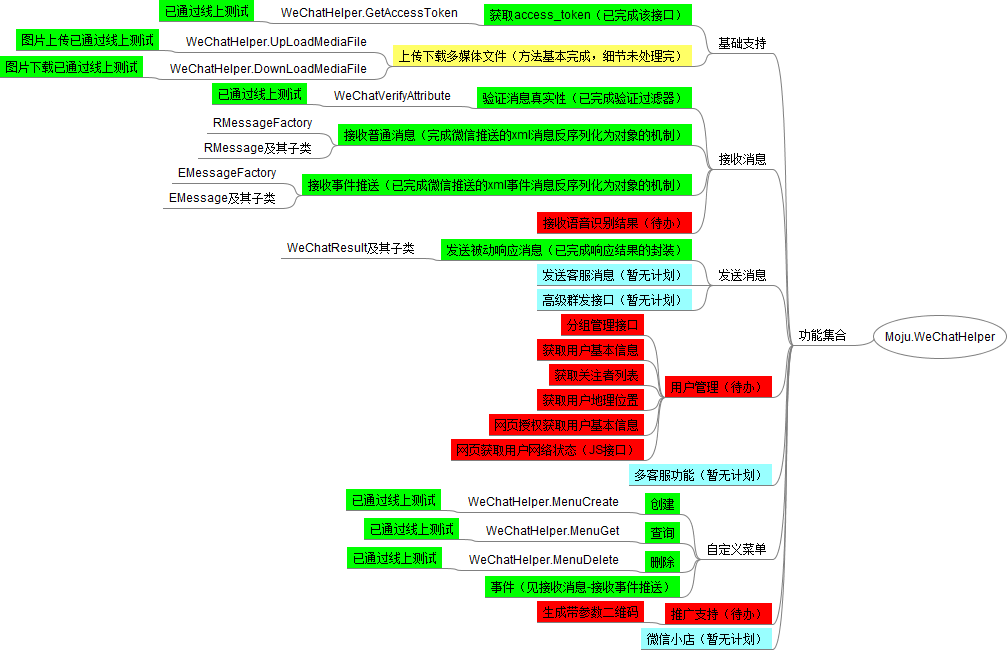
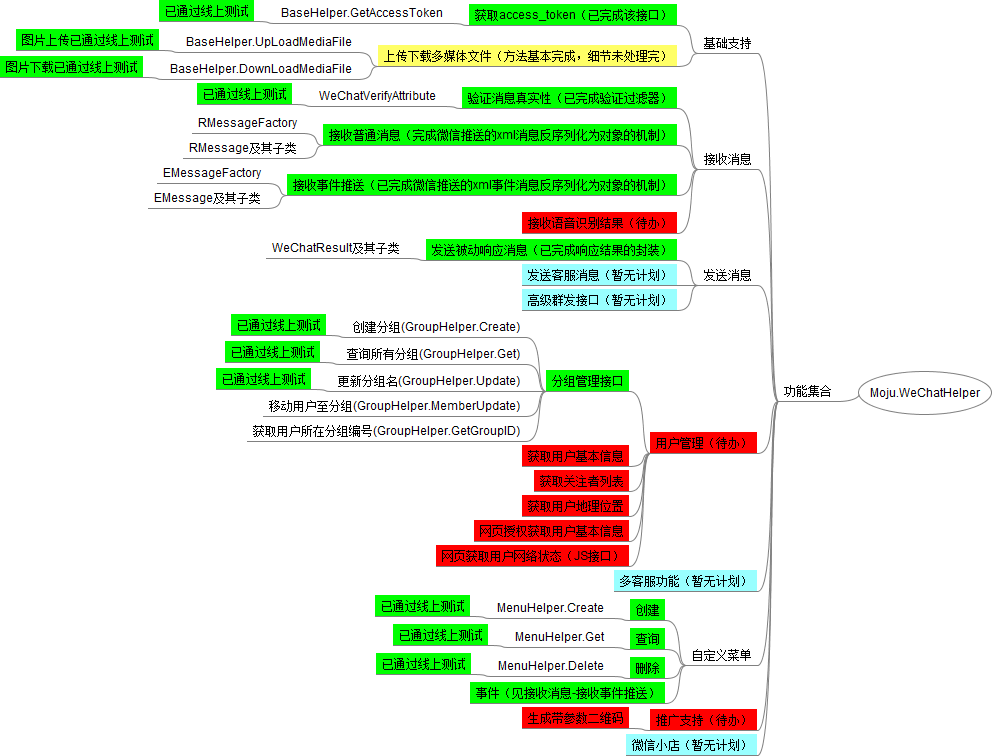
重新整理各个功能模块的方法封�
分别建立MenuHelper,BaseHelper,GroupHelper,UserHelper,以防止原WeChatHelper集中太多接口方法

Changed region(s): [[0.0, 0.0, 1.0, 1.0]]

diff --git a/Moju.WeChatHelper/Common/Utils.cs b/Moju.WeChatHelper/Common/Utils.cs
@@ -1,5 +1,6 @@
 using System.Collections.Generic;
 using System.IO;
+using System.Net;
 using System.Security.Cryptography;
 using System.Text;
 using System.Web.Security;
@@ -25,7 +26,7 @@ namespace Moju.WeChatHelper
             tmp.Add(timestamp);
             tmp.Add(nonce);
             string str = string.Join("", tmp);
-            string hashRes = SHA1(str);
+            string hashRes = FormsAuthentication.HashPasswordForStoringInConfigFile(str, "SHA1").ToLower();
             if (!string.IsNullOrWhiteSpace(hashRes) && signature == hashRes)
             {
                 return true;
@@ -34,28 +35,6 @@ namespace Moju.WeChatHelper
             {
                 return false;
             }
-        }
-
-        /// <summary>
-        /// SHA1加密
-        /// </summary>
-        private static string SHA1(string ToEncrypt)
-        {
-            return FormsAuthentication.HashPasswordForStoringInConfigFile(ToEncrypt, "SHA1").ToLower();
-            // 
-            /*
-             *  var sha1 = new SHA1CryptoServiceProvider();
-            return BitConverter.ToString(sha1.ComputeHash(Encoding.Default.GetBytes(result))).Replace("-", "").ToLower();
-             */
-            //byte[] StrRes = Encoding.Default.GetBytes(ToEncrypt);
-            //HashAlgorithm iSHA = new SHA1CryptoServiceProvider();
-            //StrRes = iSHA.ComputeHash(StrRes);
-            //StringBuilder EnText = new StringBuilder();
-            //foreach (byte iByte in StrRes)
-            //{
-            //    EnText.AppendFormat("{0:x2}", iByte);
-            //}
-            //return EnText.ToString();
         }
 
         /// <summary>
@@ -72,5 +51,63 @@ namespace Moju.WeChatHelper
                 return (T)serializer.Deserialize(sr);
             }
         }
+
+        /// <summary>
+        /// 发送一个GET请求
+        /// </summary>
+        /// <param name="url"></param>
+        /// <returns></returns>
+        public static string RequestGet(string url)
+        {
+            HttpWebRequest req = (HttpWebRequest)HttpWebRequest.Create(url);
+            req.Method = "GET";
+            using (HttpWebResponse resp = (HttpWebResponse)req.GetResponse())
+            {
+                if (resp.StatusCode == HttpStatusCode.OK)
+                {
+                    using (StreamReader sr = new StreamReader(resp.GetResponseStream(), Encoding.UTF8))
+                    {
+                        return sr.ReadToEnd();
+                    }
+                }
+                else
+                {
+                    return "error";
+                }
+            }
+        }
+        /// <summary>
+        /// 发送一个POST请求
+        /// </summary>
+        /// <param name="url"></param>
+        /// <param name="postData"></param>
+        /// <returns></returns>
+        public static string RequestPost(string url, string postData)
+        {
+            HttpWebRequest req = (HttpWebRequest)HttpWebRequest.Create(url);
+            req.Method = "POST";
+            byte[] data = Encoding.UTF8.GetBytes(postData);
+            req.ContentLength = data.Length;
+            using (Stream sw = req.GetRequestStream())
+            {
+                sw.Write(data, 0, data.Length);
+                sw.Flush();
+                using (HttpWebResponse resp = (HttpWebResponse)req.GetResponse())
+                {
+                    if (resp.StatusCode == HttpStatusCode.OK)
+                    {
+                        using (StreamReader sr = new StreamReader(resp.GetResponseStream(), Encoding.UTF8))
+                        {
+                            return sr.ReadToEnd();
+                        }
+                    }
+                    else
+                    {
+                        return "error";
+                    }
+                }
+            }
+        }
+
     }
 }

diff --git a/Moju.WeChatHelper/BaseHelper.cs b/Moju.WeChatHelper/BaseHelper.cs
@@ -7,7 +7,10 @@ using System.Text;
 using System.Linq;
 namespace Moju.WeChatHelper
 {
-    public class WeChatHelper
+    /// <summary>
+    /// 基础支持
+    /// </summary>
+    public class BaseHelper
     {
         private static WeChatHelperSection config = (WeChatHelperSection)ConfigurationManager.GetSection("WeChatHelperSection");
         /// <summary>
@@ -19,7 +22,7 @@ namespace Moju.WeChatHelper
         public static string GetAccessToken()
         {
             string url = string.Format("https://api.weixin.qq.com/cgi-bin/token?grant_type=client_credential&appid={0}&secret={1}", config.WeChatAppID, config.WeChatAppSecret);
-            return GetRequestUrl(url);
+            return Utils.RequestGet(url);
         }
         /// <summary>
         /// 上传本地文件
@@ -100,73 +103,6 @@ namespace Moju.WeChatHelper
                 else
                 {
                     return "微信下载接口调用失败!";
-                }
-            }
-        }
-        /// <summary>
-        /// 创建自定义菜单
-        /// </summary>
-        /// <param name="AccessToken"></param>
-        /// <returns></returns>
-        public static string MenuCreate(string AccessToken, Menu menu)
-        {
-            string url = string.Format("https://api.weixin.qq.com/cgi-bin/menu/create?access_token={0}", AccessToken);
-            HttpWebRequest req = (HttpWebRequest)HttpWebRequest.Create(url);
-            req.Method = "POST";
-            string postData = menu.GetJson().ToString();
-            byte[] data = Encoding.UTF8.GetBytes(postData);
-            req.ContentLength = data.Length;
-            using (Stream sw = req.GetRequestStream())
-            {
-                sw.Write(data, 0, data.Length);
-                sw.Flush();
-                using (HttpWebResponse resp = (HttpWebResponse)req.GetResponse())
-                {
-                    if (resp.StatusCode == HttpStatusCode.OK)
-                    {
-                        using (StreamReader sr = new StreamReader(resp.GetResponseStream(), Encoding.UTF8))
-                        {
-                            return sr.ReadToEnd();
-                        }
-                    }
-                    else
-                    {
-                        return "error";
-                    }
-                }
-            }
-        }
-        public static string MenuGet(string AccessToken)
-        {
-            string url = string.Format("https://api.weixin.qq.com/cgi-bin/menu/get?access_token={0}", AccessToken);
-            return GetRequestUrl(url);
-        }
-        public static string MenuDelete(string AccessToken)
-        {
-            string url = string.Format("https://api.weixin.qq.com/cgi-bin/menu/delete?access_token={0}", AccessToken);
-            return GetRequestUrl(url);
-        }
-        /// <summary>
-        /// 发送一个GET请求
-        /// </summary>
-        /// <param name="url"></param>
-        /// <returns></returns>
-        private static string GetRequestUrl(string url)
-        {
-            HttpWebRequest req = (HttpWebRequest)HttpWebRequest.Create(url);
-            req.Method = "GET";
-            using (HttpWebResponse resp = (HttpWebResponse)req.GetResponse())
-            {
-                if (resp.StatusCode == HttpStatusCode.OK)
-                {
-                    using (StreamReader sr = new StreamReader(resp.GetResponseStream(), Encoding.UTF8))
-                    {
-                        return sr.ReadToEnd();
-                    }
-                }
-                else
-                {
-                    return "error";
                 }
             }
         }

diff --git a/Demo/Controllers/HomeController.cs b/Demo/Controllers/HomeController.cs
@@ -38,7 +38,7 @@ namespace Demo.Controllers
                 //测试获取access_token接口
                 if (text.Content == "t1")
                 {
-                    string AccessToken = WeChatHelper.GetAccessToken();
+                    string AccessToken = BaseHelper.GetAccessToken();
                     Tools.Log("AccessToken:" + AccessToken);
                     return new WeChatTextResult
                     {
@@ -51,7 +51,7 @@ namespace Demo.Controllers
                 //测试图片上传接口
                 if (text.Content == "t2")
                 {
-                    string res = WeChatHelper.UpLoadMediaFile(Tools.GetToken(), UpLoadMediaType.Image, Server.MapPath("~/mind.jpg"));
+                    string res = BaseHelper.UpLoadMediaFile(Tools.GetToken(), UpLoadMediaType.Image, Server.MapPath("~/mind.jpg"));
                     var rightDef = new { type = "", media_id = "", created_at = 0 };//{"type":"TYPE","media_id":"MEDIA_ID","created_at":123456789}
 
                     var resObj = JsonConvert.DeserializeAnonymousType(res, rightDef);
@@ -80,7 +80,7 @@ namespace Demo.Controllers
                 {
                     RImageMessage img = (RImageMessage)msg;
                     //下载图片
-                    string FilePath = WeChatHelper.DownLoadMediaFile(Tools.GetToken(), img.MediaId, Server.MapPath("~/files/"));
+                    string FilePath = BaseHelper.DownLoadMediaFile(Tools.GetToken(), img.MediaId, Server.MapPath("~/files/"));
 
                     Tools.Log("download:" + FilePath);
 

diff --git a/Moju.WeChatHelper/Menu/MenuHelper.cs b/Moju.WeChatHelper/Menu/MenuHelper.cs
@@ -1,0 +1,44 @@
+using System;
+using System.Collections.Generic;
+using System.Linq;
+using System.Text;
+
+namespace Moju.WeChatHelper
+{
+    /// <summary>
+    /// 自定义菜单
+    /// </summary>
+    public class MenuHelper
+    {
+        /// <summary>
+        /// 创建自定义菜单
+        /// </summary>
+        /// <param name="AccessToken"></param>
+        /// <returns></returns>
+        public static string Create(string AccessToken, Menu menu)
+        {
+            string url = string.Format("https://api.weixin.qq.com/cgi-bin/menu/create?access_token={0}", AccessToken);
+            return Utils.RequestPost(url, menu.GetJson().ToString());
+        }
+        /// <summary>
+        /// 查询菜单
+        /// </summary>
+        /// <param name="AccessToken"></param>
+        /// <returns></returns>
+        public static string Get(string AccessToken)
+        {
+            string url = string.Format("https://api.weixin.qq.com/cgi-bin/menu/get?access_token={0}", AccessToken);
+            return Utils.RequestGet(url);
+        }
+        /// <summary>
+        /// 删除菜单
+        /// </summary>
+        /// <param name="AccessToken"></param>
+        /// <returns></returns>
+        public static string Delete(string AccessToken)
+        {
+            string url = string.Format("https://api.weixin.qq.com/cgi-bin/menu/delete?access_token={0}", AccessToken);
+            return Utils.RequestGet(url);
+        }
+    }
+}

diff --git a/Demo/Controllers/MenuController.cs b/Demo/Controllers/MenuController.cs
@@ -19,14 +19,14 @@ namespace Demo.Controllers
             menu.button.Add(new ClickButton { Key = "K002", Name = "测试菜单2" });
             menu.button.Add(new ClickButton { Key = "K003", Name = "测试菜单3" });
 
-            string res = WeChatHelper.MenuCreate(token, menu);
+            string res = MenuHelper.Create(token, menu);
             return Content("done:" + res);
         }
 
         public ActionResult Get()
         {
             string token = Tools.GetToken();
-            string res = WeChatHelper.MenuGet(token);
+            string res = MenuHelper.Get(token);
             Menu menu = new Menu();
             if (res != "error")
             {
@@ -38,7 +38,7 @@ namespace Demo.Controllers
         public ActionResult Del()
         {
             string token = Tools.GetToken();
-            string res = WeChatHelper.MenuDelete(token);
+            string res = MenuHelper.Delete(token);
             return Content(res);
         }
     }

diff --git a/Demo/Models/Tools.cs b/Demo/Models/Tools.cs
@@ -9,7 +9,7 @@ namespace Demo.Models
     {
         public static string GetToken()
         {
-            string AccessToken = WeChatHelper.GetAccessToken();//实际开发时，请勿过多请求AccessToken，保存后未过期则沿用
+            string AccessToken = BaseHelper.GetAccessToken();//实际开发时，请勿过多请求AccessToken，保存后未过期则沿用
             //正常结果：{"access_token":"ACCESS_TOKEN","expires_in":7200}
             //异常结果：{"errcode":40013,"errmsg":"invalid appid"}
             var tokenObj = new { access_token = "", expires_in = 0 };

diff --git a/Moju.WeChatHelper/UserHelper.cs b/Moju.WeChatHelper/UserHelper.cs
@@ -1,0 +1,14 @@
+using System;
+using System.Collections.Generic;
+using System.Linq;
+using System.Text;
+
+namespace Moju.WeChatHelper
+{
+    /// <summary>
+    /// 用户管理
+    /// </summary>
+    class UserHelper
+    {
+    }
+}
